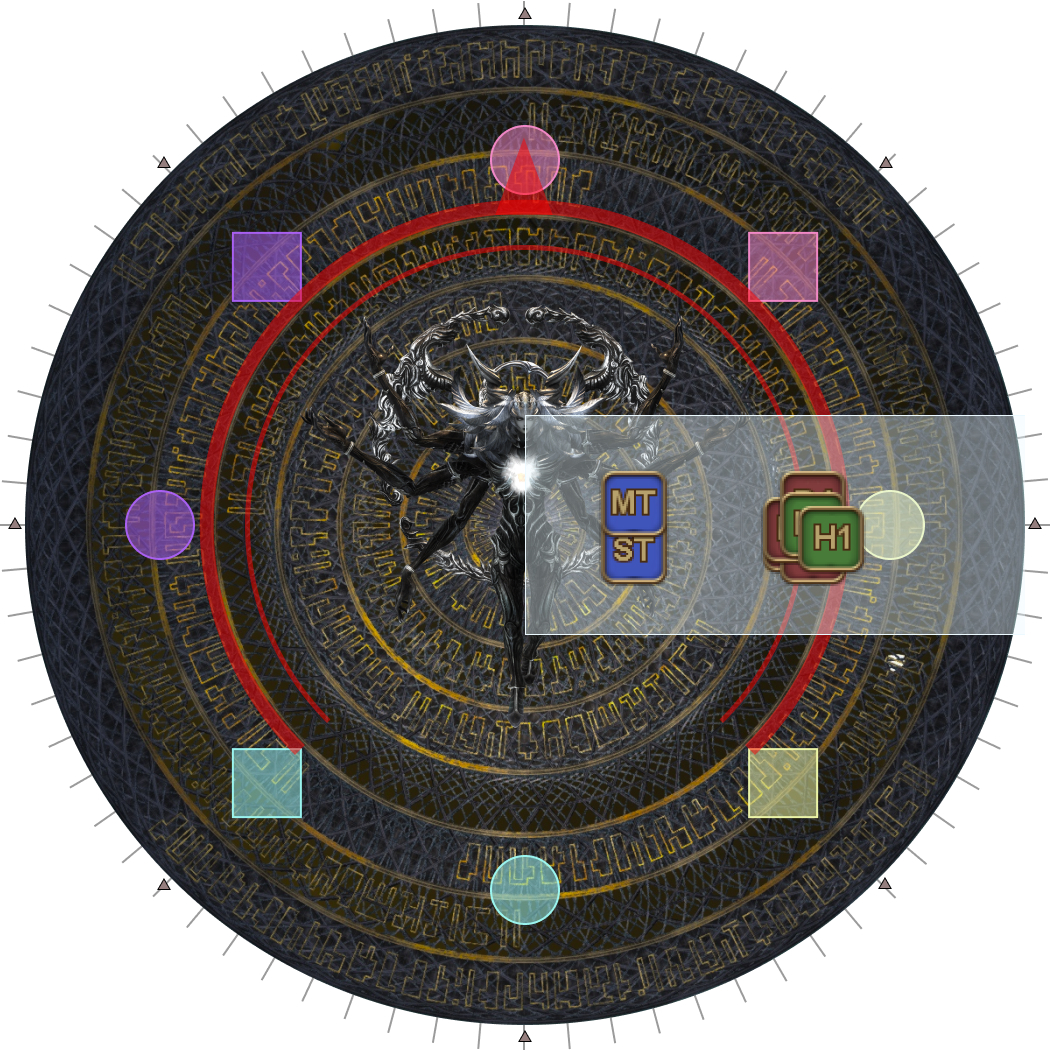
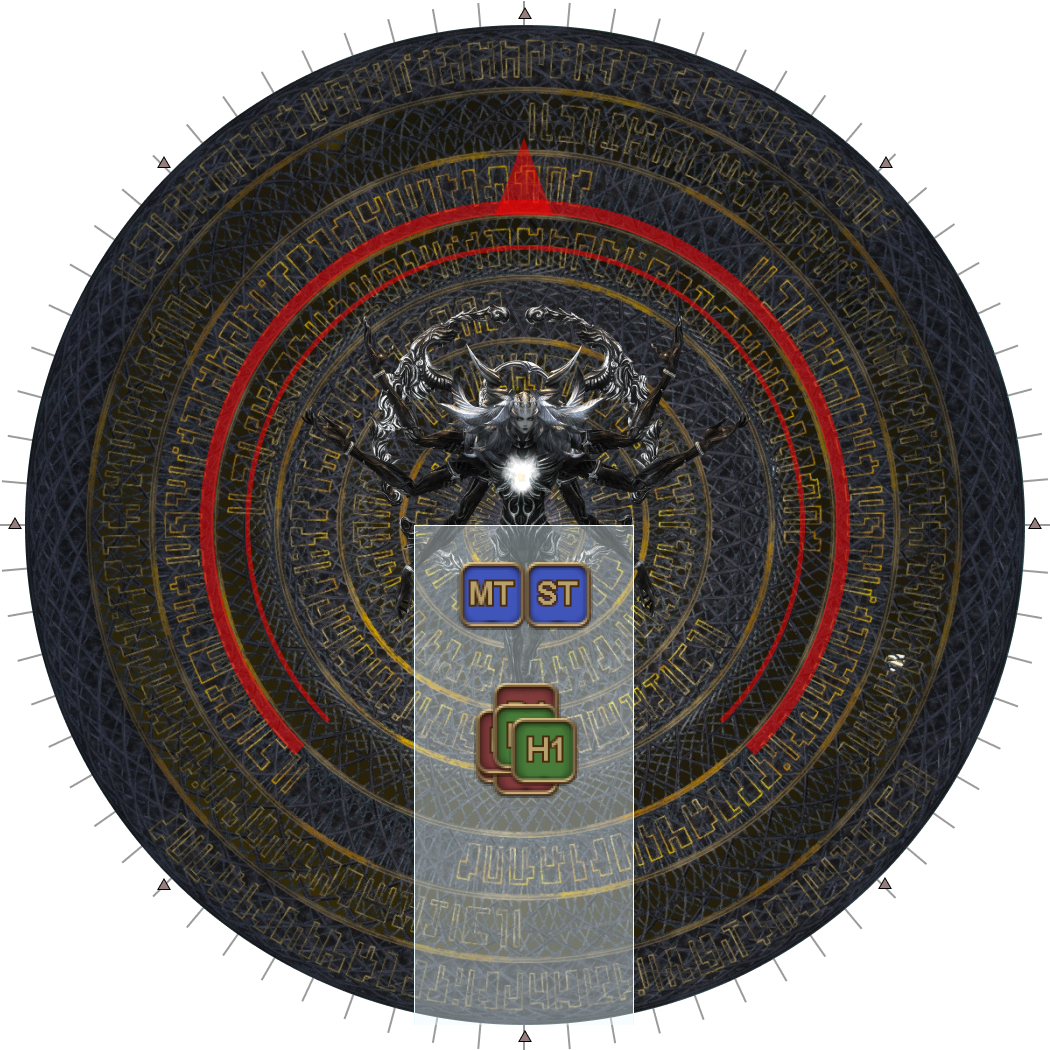
Update TOP cheatsheet

diff --git a/ultimates/top/en/06_alpha_omega.md b/ultimates/top/en/06_alpha_omega.md
@@ -18,28 +18,31 @@ This phase requires planning out and coordinating mitigations. One such mitigati
 
 <table>
   <tr>
+    <td colspan="2">All with H2 shields, H2 30s, and:</td>
+  </tr>
+  <tr>
     <td><b>Cosmo Memory</b></td>
-    <td><p>MT Reprisal, MT 90s, H2 shields, H2 30s, ST LB3, D1</p></td>
+    <td><p>Tank LB3, MT 90s, ST Reprisal, D1</p><p><em>(Tank LB priority: WAR > DRK > PLD > GNB)</em></p></td>
   </tr>
   <tr>
     <td><b>Cosmo Dive #1</b></td>
-    <td>ST Reprisal, ST 90s, H1 120s, H2 shields, H2 30s, D4</td>
+    <td>MT Reprisal, H2 120s, D2, D4</td>
   </tr>
   <tr>
     <td><b>Wave Cannon #1</b></td>
-    <td>MT Reprisal, H2 shields, H2 30s, H2 120s, D2, D3</td>
+    <td>ST Reprisal, ST 90s, D3</td>
   </tr>
   <tr>
     <td><b>Wave Cannon #2</b></td>
-    <td><p>MT 90s, ST Reprisal, H2 shields*, H2 30s, H2 120s, D1</p><p><em>* Expedient/Holos vs Consolation/Panhaima</em></p></td>
+    <td><p>MT Reprisal, MT 90s, H1 120s, D1</p></td>
   </tr>
   <tr>
     <td><b>Cosmo Dive #2</b></td>
-    <td><p>MT Reprisal, ST 90s, H2 shields, H2 30s*, D4</p><p><em>* Expedient/Holos vs Consolation/Panhaima</em></p></td>
+    <td><p>ST Reprisal, D2, D4</p></td>
   </tr>
   <tr>
     <td><b>Cosmo Meteor</b></td>
-    <td>ST Reprisal, H1 120s, H2 shields, H2 30s, D2, D3</td>
+    <td>MT Reprisal, ST 90s, H2 120s, D3</td>
   </tr>
 </table>
 
@@ -309,7 +312,7 @@ In particular, this final beam deals extra damage to the two front players, whic
 
  The catch this time as the Wave Cannon in the middle, as the party will now need to spread for the two sets of four beams while dodging the Cosmo Arrow.
 
- The final Wave Cannon beam resolves shortly after Cosmo Arrow finishes. We stack East to reduce movement for H2 and D4.
+ The final Wave Cannon beam resolves shortly after Cosmo Arrow finishes.
 
  <table>
   <th colspan="2" style="text-align:center">Inside first</th>
@@ -479,7 +482,7 @@ In particular, this final beam deals extra damage to the two front players, whic
     <td><img src="../images/06_alpha_omega/alpha_omega_3_10a.jpg"></td>
   </tr>
   <tr>
-    <td colspan="2"><p><b>11.</b> Stack together east (tanks in front) for the Wave Cannon</p></td>
+    <td colspan="2"><p><b>11.</b> Stack together South (tanks in front) for the Wave Cannon</p></td>
     <td colspan="2"><img src="../images/06_alpha_omega/alpha_omega_3_11.jpg"></td>
   </tr>
 </table>
